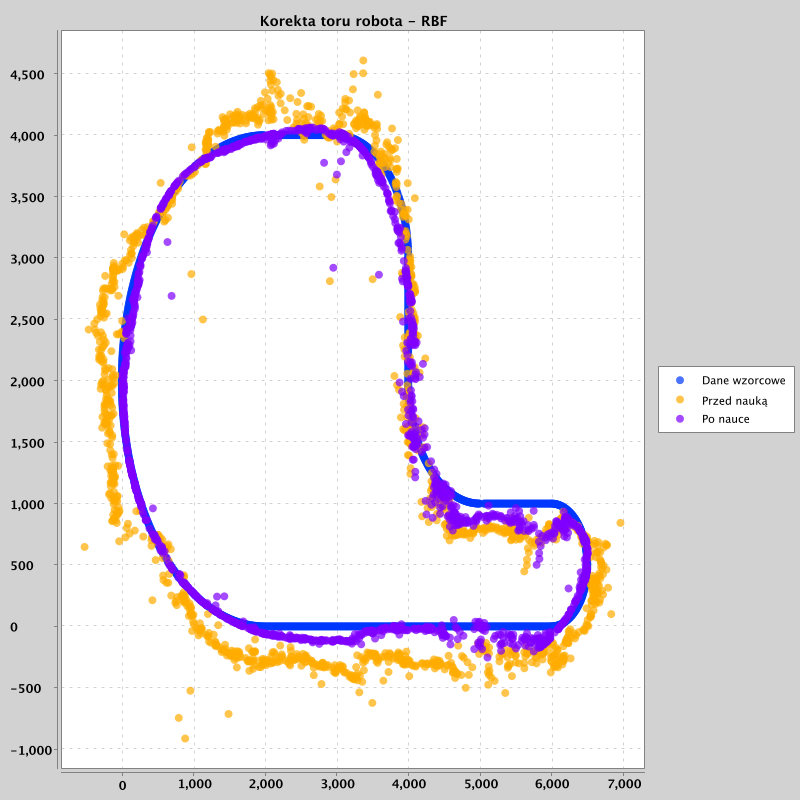
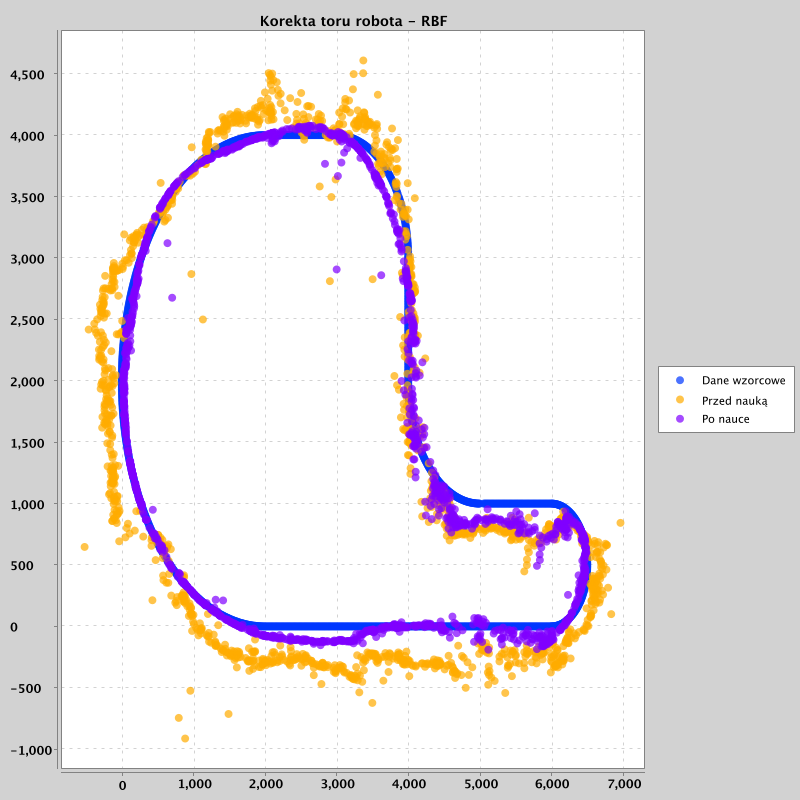
Last tries with perceptron

diff --git a/src/main/kotlin/tasks/track/TrackV2.kt b/src/main/kotlin/tasks/track/TrackV2.kt
@@ -10,20 +10,30 @@ import java.util.*
 
 fun main() {
     val datas = listOf(
-        DataLoader.loadCSV("new/1.csv", 3, 2),
-        DataLoader.loadCSV("new/2.csv", 3, 2)
+        DataLoader.loadCSV("new/1.csv", 2, 2),
+        DataLoader.loadCSV("new/2.csv", 2, 2),
+        DataLoader.loadCSV("new/3.csv", 2, 2),
+        DataLoader.loadCSV("new/4.csv", 2, 2),
+        DataLoader.loadCSV("new/5.csv", 2, 2),
+        DataLoader.loadCSV("new/6.csv", 2, 2),
+        DataLoader.loadCSV("new/7.csv", 2, 2),
+        DataLoader.loadCSV("new/8.csv", 2, 2),
+        DataLoader.loadCSV("new/9.csv", 2, 2),
+        DataLoader.loadCSV("new/10.csv", 2, 2),
+        DataLoader.loadCSV("new/11.csv", 2, 2),
+        DataLoader.loadCSV("new/12.csv", 2, 2)
     )
 
     val filtered = datas.map { data ->
         val average = data.sumByDouble {
-            val first = Point(doubleArrayOf(it.first.coordinates[1], it.first.coordinates[2]))
-            first.distance(it.second)
+//            val first = Point(doubleArrayOf(it.first.coordinates[1], it.first.coordinates[2]))
+            it.first.distance(it.second)
         } / data.size
 
         val filtered = data.filter {
-            val first = Point(doubleArrayOf(it.first.coordinates[1], it.first.coordinates[2]))
+//            val first = Point(doubleArrayOf(it.first.coordinates[1], it.first.coordinates[2]))
             val second = Point(it.second)
-            first.distance(second) < average
+            it.first.distance(second) < average
         }
         filtered
     }
@@ -34,12 +44,12 @@ fun main() {
 
     val network = NetworkV2()
     val inputLayer = Layer(
-        (1..20).map { SigmoidNeuron(3) }
+        (1..5).map { SigmoidNeuron(2) }
     )
     val outputLayer = Layer(
         listOf(
-            IdentityNeuron(20),
-            IdentityNeuron(20)
+            IdentityNeuron(5),
+            IdentityNeuron(5)
         )
     )
     network.layers.add(inputLayer)

diff --git a/src/main/kotlin/network/neurons/NetworkV2.kt b/src/main/kotlin/network/neurons/NetworkV2.kt
@@ -5,7 +5,7 @@ import math.Point
 class NetworkV2 {
     // TODO: online/offline
     private val alpha = 0.1
-    private val momentum = 0.05
+    private val momentum = 0.0
     val layers = ArrayList<Layer>()
     private var previousDeltas : List<ArrayList<DoubleArray>>? = null
     private var previousBiases : List<DoubleArray>? = null
@@ -51,7 +51,6 @@ class NetworkV2 {
                 var b: List<Double>
                 val previousOutput = if (l != 0) {
                     outputs[l - 1]
-//                    output(l - 1, input)
                 } else {
                     input
                 }

diff --git a/src/main/kotlin/files/DataLoader.kt b/src/main/kotlin/files/DataLoader.kt
@@ -22,7 +22,7 @@ class DataLoader {
             val data = ArrayList<Pair<Point, Point>>()
             File("data/inputs/$filename").forEachLine {
                 val numbers = it.trim().split(";")
-                    .slice(arrayListOf(1, 3, 4, 5, 6))
+                    .slice(arrayListOf(3, 4, 5, 6))
                     .map(String::toDouble)
                     .toMutableList()
 
